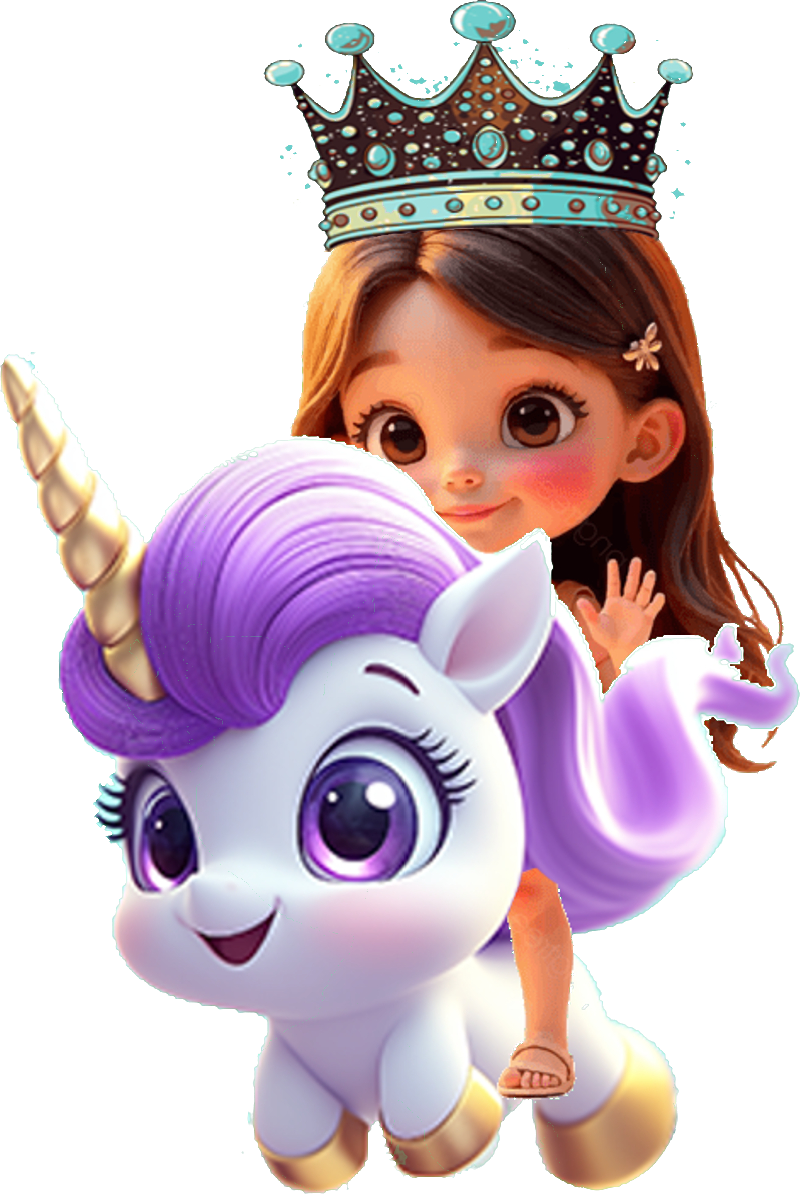
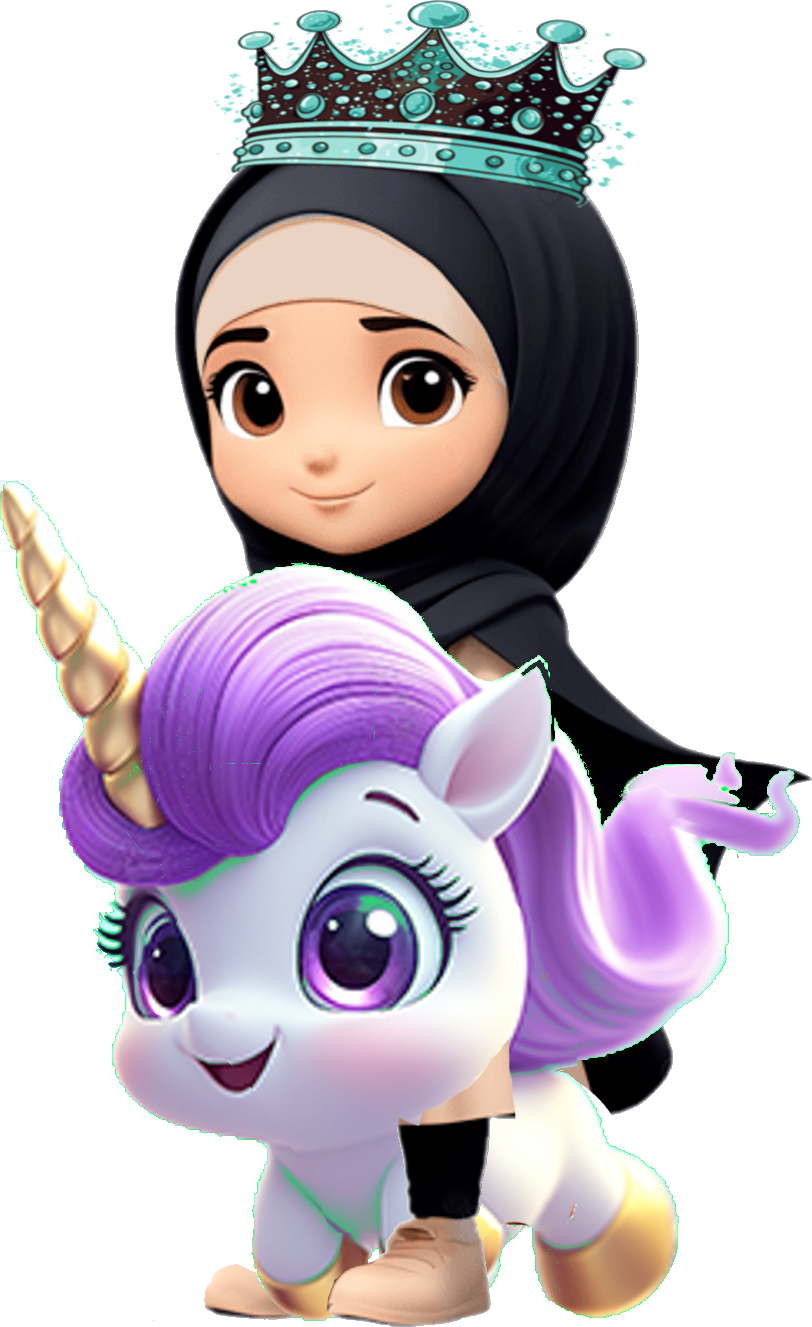
Les dix dessins du 22 aout, detoures (v134)
La fille voilee sur sa licorne, avec et sans couronne, dans les deux sens.
Les fichiers arrivaient en JPG sur fond blanc : outils/detoure.py enleve le
fond par remplissage depuis les bords, ce qui preserve le blanc du corps de
la licorne, adoucit le contour et recadre sur le dessin.

Les huit references portent un ?v= : sans lui, une image qui change sans
changer de nom reste dans le cache du navigateur et du service worker.

Le cadrage de la fille debout suit : les nouveaux dessins sont plus hauts et
elle masquait la tete de la licorne. piloteBoite passe a {28,44,74} — gauche
est la position centree, piloteDecale la deplace ensuite de 23 points selon
le sens.

Verifie : les deux sens, tete de la licorne visible, 39 images de la carte
chargees, 0 erreur console.

diff --git a/app/app.html b/app/app.html
@@ -8045,7 +8045,7 @@ function _boyLetterPicker(ca,session){
 
 /* Numéro de version de secours, quand le cache n'est pas lisible. À tenir
    au même chiffre que `public/sw.js`, qui reste la référence. */
-var _VERSION_REPLI='v133';
+var _VERSION_REPLI='v134';
 var _TATWEEL='ـ';
 /* Formes enfant : on remplace le joint invisible (ZWJ) par un tiret VISIBLE (ـ)
    pour que les formes milieu/fin montrent clairement le trait de liaison. */
@@ -9871,22 +9871,22 @@ var _HABILLAGES={
        Deux dessins par situation, un par SENS de marche : c'est le client
        qui les a faits, et il ne faut surtout pas retomber sur le
        retournement horizontal, déjà refusé. */
-    vaisseau:'/images/licorne-couronne-gd.png',
-    vaisseauSens:{gd:'/images/licorne-couronne-gd.png',dg:'/images/licorne-couronne-dg.png'},
+    vaisseau:'/images/licorne-couronne-gd.png?v=133',
+    vaisseauSens:{gd:'/images/licorne-couronne-gd.png?v=133',dg:'/images/licorne-couronne-dg.png?v=133'},
     /* Avant la couronne, ses deux dessins sans couronne — le client a
        fourni le sens droite→gauche le 20 août. Ils servent tant que la
        couronne n'est pas gagnée, c'est-à-dire jusqu'à la fin du monde 2. */
-    vaisseauSansCouronne:'/images/licorne-fille.png',
-    vaisseauSansCouronneSens:{gd:'/images/licorne-fille.png',dg:'/images/licorne-fille-dg.png'},
+    vaisseauSansCouronne:'/images/licorne-fille.png?v=133',
+    vaisseauSansCouronneSens:{gd:'/images/licorne-fille.png?v=133',dg:'/images/licorne-fille-dg.png?v=133'},
     /* La couronne se gagne EN TERMINANT le monde 2 : elle ne la porte donc
        pas en partant du monde 2, seulement à partir du monde 3. */
     couronneDes:3,
-    vaisseauVide:'/images/licorne-seule-gd.png',
-    vaisseauVideSens:{gd:'/images/licorne-seule-gd.png',dg:'/images/licorne-seule-dg.png'},
+    vaisseauVide:'/images/licorne-seule-gd.png?v=133',
+    vaisseauVideSens:{gd:'/images/licorne-seule-gd.png?v=133',dg:'/images/licorne-seule-dg.png?v=133'},
     /* La fille descendue. Elle ne porte la couronne qu'une fois le monde 2
        TERMINÉ — avant, c'est la fille sans couronne, sur tous les mondes. */
-    pilote:'/images/fille-couronne.png',
-    piloteSansCouronne:'/images/fille-seule.png',
+    pilote:'/images/fille-couronne.png?v=133',
+    piloteSansCouronne:'/images/fille-seule.png?v=133',
     pilotesEtape:null,
     /* CE QUI L'ATTEND SUR UN MONDE. Sa licorne au monde 1 : elle y arrive
        seule, en glissant sur l'arc-en-ciel, et repart avec. La couronne au
@@ -9895,7 +9895,7 @@ var _HABILLAGES={
     montureEtape:1,
     couronneEtape:2,
     objetsEtape:{
-      0:{img:'/images/licorne-seule-gd.png',taille:0.34,dy:0.06},
+      0:{img:'/images/licorne-seule-gd.png?v=133',taille:0.34,dy:0.06},
       1:{img:'/images/couronne.png',taille:0.34,dy:0.04}
     },
     /* Le seul chemin dessiné de la carte : le toboggan qui descend vers le
@@ -9996,17 +9996,24 @@ var _HABILLAGES={
       ],
       /* Les licornes du client vont DANS TOUS LES SENS. */
       'licornes':[
-        {img:'/images/licorne-seule-gd.png',x:2,y:20,l:26,anim:'beteVole',dur:30,del:0},
-        {img:'/images/licorne-seule-dg.png',x:62,y:56,l:24,anim:'beteVole',dur:26,del:8},
-        {img:'/images/licorne-seule-gd.png',x:22,y:70,l:20,anim:'beteVole',dur:34,del:17},
-        {img:'/images/licorne-seule-dg.png',x:70,y:14,l:18,anim:'beteVole',dur:23,del:25}
+        {img:'/images/licorne-seule-gd.png?v=133',x:2,y:20,l:26,anim:'beteVole',dur:30,del:0},
+        {img:'/images/licorne-seule-dg.png?v=133',x:62,y:56,l:24,anim:'beteVole',dur:26,del:8},
+        {img:'/images/licorne-seule-gd.png?v=133',x:22,y:70,l:20,anim:'beteVole',dur:34,del:17},
+        {img:'/images/licorne-seule-dg.png?v=133',x:70,y:14,l:18,anim:'beteVole',dur:23,del:25}
       ]
     },
     /* Elle est plus étroite et plus haute qu'un astronaute, et se tient à
        l'ARRIÈRE de sa licorne pour qu'on voie la tête de celle-ci — c'est
        la contrainte du client. `piloteDecale` est en points de pourcentage,
        et change de côté avec le sens de la marche. */
-    piloteBoite:{gauche:23,largeur:55,hauteur:88},
+    /* Les dessins du 22 août sont plus hauts que les précédents : la fille
+       debout y fait toute la hauteur de la composition. Au cadrage d'avant
+       elle masquait la tête de la licorne, que le client veut voir. */
+    /* `gauche` est la position CENTRÉE : `piloteDecale` la déplace ensuite
+       de 23 points d'un côté ou de l'autre selon le sens de marche. Avec
+       une largeur de 44, le centre tombe à 28 — d'où 5 % quand la licorne
+       regarde à droite, 51 % quand elle regarde à gauche. */
+    piloteBoite:{gauche:28,largeur:44,hauteur:74},
     piloteDecale:23,
     /* La monture posée est réduite pour retrouver la taille qu'elle a en
        vol : l'image de vol porte la licorne ET la fille, donc elle est
@@ -13672,7 +13679,7 @@ function initChildBgAnim() {
       var li = document.createElement('img');
       /* Elle regarde la ou elle va : le cap decide du dessin. */
       var versLaDroite = Math.cos(L.cap * Math.PI / 180) >= 0;
-      li.src = versLaDroite ? '/images/licorne-seule-gd.png' : '/images/licorne-seule-dg.png';
+      li.src = versLaDroite ? '/images/licorne-seule-gd.png?v=133' : '/images/licorne-seule-dg.png?v=133';
       li.alt = '';
       droit.appendChild(li);
       lc.appendChild(droit);

diff --git a/public/sw.js b/public/sw.js
@@ -1,5 +1,5 @@
-// iamlearningarabic â€” Service Worker v133
-const CACHE = 'arab-v133';
+// iamlearningarabic â€” Service Worker v134
+const CACHE = 'arab-v134';
 
 self.addEventListener('install', function(e) {
   self.skipWaiting();

diff --git a/outils/detoure.py b/outils/detoure.py
@@ -1,0 +1,126 @@
+# -*- coding: utf-8 -*-
+"""Detoure les dessins du client et les met aux noms attendus par la page.
+
+Les fichiers arrivent en JPG sur fond blanc. Poses tels quels sur le degrade
+pastel, on verrait un rectangle blanc. On enleve donc le fond — mais PAS tout
+ce qui est blanc : le corps de la licorne l'est aussi. Le fond se reconnait a
+ceci qu'il TOUCHE LE BORD : on part des quatre cotes et on n'avance que dans
+le blanc. Ce qui est enferme dans le dessin reste opaque.
+
+Les bords sont adoucis : la ou le pixel n'est pas tout a fait blanc, il garde
+une transparence partielle, sinon le contour ressort en escalier.
+
+Usage :  python3 outils/detoure.py
+"""
+import io
+import os
+import sys
+from collections import deque
+
+from PIL import Image
+
+SOURCE = os.path.join(os.path.expanduser('~'), 'Downloads')
+CIBLE = os.path.join(os.path.dirname(__file__), '..', 'public', 'images')
+
+# fichier du client -> nom attendu par la page
+PAIRES = [
+    ('licorne avec fille voilée et couronne gauche à droite.jpg', 'licorne-couronne-gd.png'),
+    ('licorne avec fille voilée et couronne droite à gauche.jpg', 'licorne-couronne-dg.png'),
+    ('licorne avec fille voilée gauche à droite.jpg',             'licorne-fille.png'),
+    ('licorne avec fille voilée droite à gauche.jpg',             'licorne-fille-dg.png'),
+    ('licorne seule gauche à droite.jpg',                         'licorne-seule-gd.png'),
+    ('licorne seule droite à gauche.jpg',                         'licorne-seule-dg.png'),
+    ('fille voilée seule couronne gauche à droite.jpg',           'fille-couronne.png'),
+    ('fille voilée seule couronne droite à gauche.jpg',           'fille-couronne-dg.png'),
+    ('fille voilée seule gauche à droite.jpg',                    'fille-seule.png'),
+    ('fille voilée seule droite à gauche.jpg',                    'fille-seule-dg.png'),
+]
+
+SEUIL_FOND = 238      # au-dessus, le pixel peut appartenir au fond
+SEUIL_PLEIN = 205     # en dessous, le pixel est franchement de la couleur
+
+
+def detoure(chemin):
+    im = Image.open(chemin).convert('RGB')
+    w, h = im.size
+    px = im.load()
+
+    def clair(x, y):
+        r, g, b = px[x, y]
+        return r >= SEUIL_FOND and g >= SEUIL_FOND and b >= SEUIL_FOND
+
+    # ── le fond : ce qui touche le bord et reste clair ──
+    fond = bytearray(w * h)
+    file = deque()
+    for x in range(w):
+        for y in (0, h - 1):
+            if clair(x, y) and not fond[y * w + x]:
+                fond[y * w + x] = 1
+                file.append((x, y))
+    for y in range(h):
+        for x in (0, w - 1):
+            if clair(x, y) and not fond[y * w + x]:
+                fond[y * w + x] = 1
+                file.append((x, y))
+    while file:
+        x, y = file.popleft()
+        for dx, dy in ((1, 0), (-1, 0), (0, 1), (0, -1)):
+            nx, ny = x + dx, y + dy
+            if 0 <= nx < w and 0 <= ny < h and not fond[ny * w + nx] and clair(nx, ny):
+                fond[ny * w + nx] = 1
+                file.append((nx, ny))
+
+    # ── l'alpha : 0 sur le fond, adouci sur son pourtour ──
+    sortie = Image.new('RGBA', (w, h))
+    sp = sortie.load()
+    for y in range(h):
+        for x in range(w):
+            r, g, b = px[x, y]
+            if fond[y * w + x]:
+                sp[x, y] = (r, g, b, 0)
+                continue
+            # un pixel du dessin qui touche le fond et qui tire vers le blanc
+            # n'est pas franc : c'est le lissage du bord, on le rend d'autant
+            clarte = min(r, g, b)
+            a = 255
+            if clarte > SEUIL_PLEIN:
+                bord = any(
+                    0 <= x + dx < w and 0 <= y + dy < h and fond[(y + dy) * w + (x + dx)]
+                    for dx, dy in ((1, 0), (-1, 0), (0, 1), (0, -1),
+                                   (1, 1), (1, -1), (-1, 1), (-1, -1))
+                )
+                if bord:
+                    a = int(255 * (SEUIL_FOND - clarte) / float(SEUIL_FOND - SEUIL_PLEIN))
+                    a = max(0, min(255, a))
+            sp[x, y] = (r, g, b, a)
+
+    # ── on recadre sur le dessin ──
+    boite = sortie.getbbox()
+    if boite:
+        sortie = sortie.crop(boite)
+    return sortie
+
+
+def main():
+    faits, manquants = [], []
+    for src, dst in PAIRES:
+        chemin = os.path.join(SOURCE, src)
+        if not os.path.exists(chemin):
+            manquants.append(src)
+            continue
+        im = detoure(chemin)
+        sortie = os.path.join(CIBLE, dst)
+        im.save(sortie, 'PNG', optimize=True)
+        faits.append('%-26s %4dx%-4d %6d Ko' % (dst, im.size[0], im.size[1],
+                                                os.path.getsize(sortie) // 1024))
+    for l in faits:
+        print(l)
+    if manquants:
+        print('INTROUVABLES :')
+        for m in manquants:
+            print('  ' + m)
+        sys.exit(1)
+    print('%d images detourees' % len(faits))
+
+
+main()

diff --git a/ETAT.md b/ETAT.md
@@ -1017,6 +1017,24 @@ page et URL propres, indexables. Elles se rangent à côté de
 
 ## Fait récemment (ne pas refaire)
 
+- **Les dix dessins du 22 août — v134.** La fille est maintenant voilée, sur
+  sa licorne, avec et sans couronne, dans les deux sens. Ils arrivaient en
+  **JPG sur fond blanc** : posés tels quels sur le dégradé pastel on aurait vu
+  un rectangle. `outils/detoure.py` enlève le fond — mais pas tout ce qui est
+  blanc, le corps de la licorne l'est aussi : le fond se reconnaît à ce qu'il
+  TOUCHE LE BORD, on part des quatre côtés et on n'avance que dans le blanc.
+  Les bords sont adoucis, l'image recadrée sur le dessin. Rejouable :
+  `python3 outils/detoure.py`.
+- **Le `?v=` est indispensable** quand une image change SANS changer de nom :
+  sinon le navigateur et le service worker gardent l'ancienne. Les huit
+  dessins du personnage sont en `?v=133`.
+- **Le cadrage de la fille debout a dû suivre.** Les nouveaux dessins sont
+  plus hauts — elle y fait toute la hauteur de la composition — et à l'ancien
+  cadrage elle masquait la tête de la licorne, que le client veut voir.
+  `piloteBoite` passe de {23,55,88} à {28,44,74}. Attention : `gauche` est la
+  position CENTRÉE, `piloteDecale` la déplace ensuite de ±23 points selon le
+  sens de marche. Une valeur de 2 envoyait la fille hors cadre.
+
 - **Quatre ordres de tracé, dictés par le client — v133.** wāw fin et milieu :
   le trait de liaison, puis EXACTEMENT le geste de l'isolée. Attention, les
   points d'un geste sont posés par rapport au centre de la CHAÎNE : la forme
